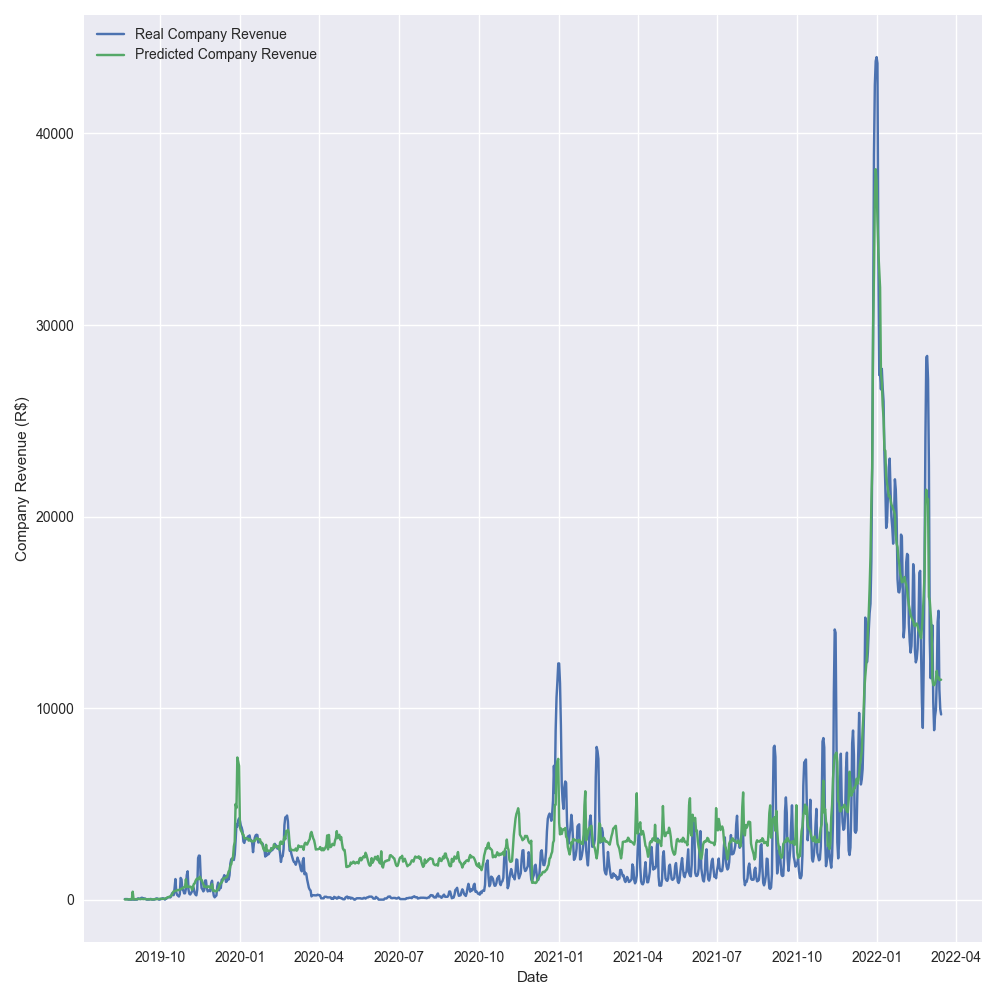
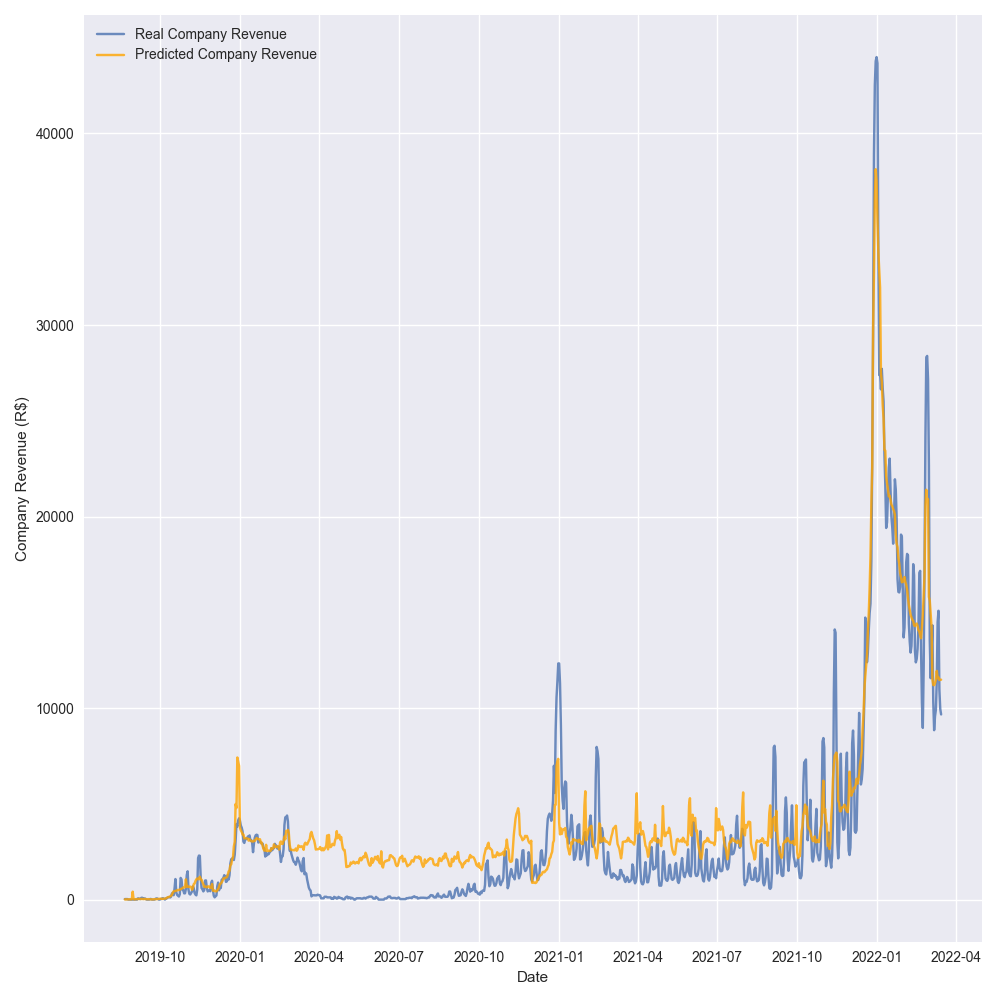
imp: change colors of graphs

Changed region(s): [[0.155, 0.62, 0.868, 0.899], [0.868, 0.062, 0.961, 0.713], [0.093, 0.031, 0.124, 0.062]]

diff --git a/src/visualization/visualize.py b/src/visualization/visualize.py
@@ -93,8 +93,8 @@ def plot_real_pred_data(df_listings: pd.DataFrame, df_daily_revenue: pd.DataFram
     path = "reports/figures/real_versus_predicted_revenue.png"
 
     plt.style.use("seaborn")
-    plt.plot(X["date"], y, label="Real revenue")
-    plt.plot(X["date"], y_pred, label="Predicted revenue")
+    plt.plot(X["date"], y, label="Real revenue", alpha=0.8)
+    plt.plot(X["date"], y_pred, label="Predicted revenue", color="orange", alpha=0.8)
     plt.xticks(rotation=45)
     plt.xlabel("Date")
     plt.ylabel("Revenue (R$)")
@@ -246,11 +246,15 @@ def plot_revenue_loss_due_to_covid(
 
     plt.style.use("seaborn")
     plt.rcParams.update({"figure.figsize": (10, 10)})
-    plt.plot(data["date"], data["company_revenue"], label="Real Company Revenue")
+    plt.plot(
+        data["date"], data["company_revenue"], label="Real Company Revenue", alpha=0.8
+    )
     plt.plot(
         data_pred["date"],
         data_pred["predicted_company_revenue"],
         label="Predicted Company Revenue",
+        color="orange",
+        alpha=0.8,
     )
     plt.xlabel("Date")
     plt.ylabel("Company Revenue (R$)")
